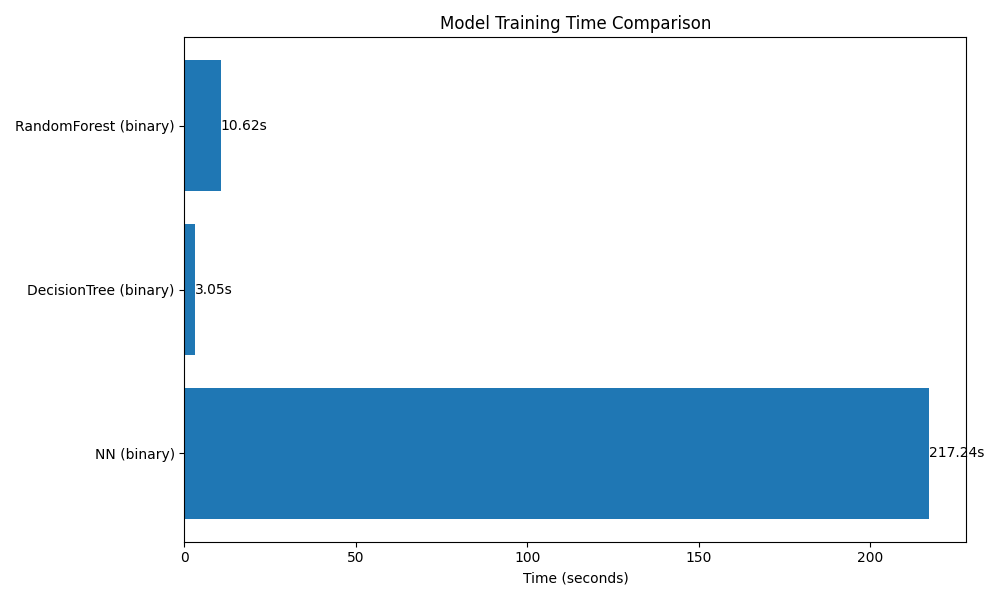
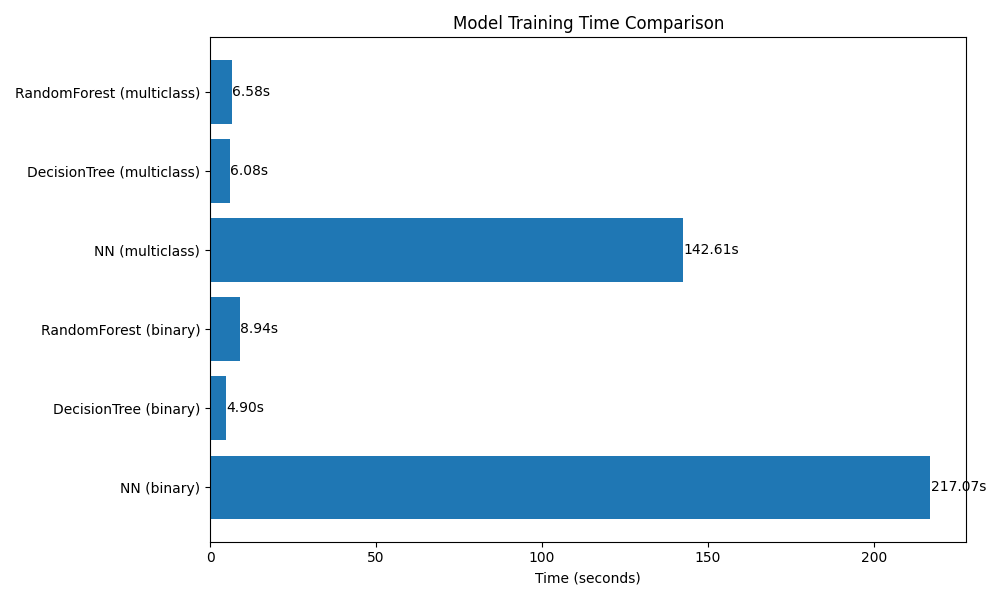
update benchmarks and decision tree feature importance

diff --git a/benchmarks.py b/benchmarks.py
@@ -72,10 +72,10 @@ def run_all(out_dir='benchmarks_output'):
 
     timings = []
 
-    # Binary classification experiments only
+    # binary 
     class_distinguisher_bin = lambda x: 0 if x == 'benign' else 1
 
-    # 1) Neural Net - binary
+    # NN binary
     print('\nPreparing NN (binary)...')
     df_bin = safe_balance(df, class_distinguisher_bin, cap=50_000)
     X_bin, y_bin = prepare_nn_arrays(df_bin, class_distinguisher_bin)
@@ -83,7 +83,7 @@ def run_all(out_dir='benchmarks_output'):
     t_nn_bin = time_nn(X_bin, y_bin, class_names=['benign', 'malicious'])
     timings.append(('NN (binary)', t_nn_bin))
 
-    # 2) Decision Tree - binary
+    # DT binary
     print('\nPreparing Decision Tree (binary)...')
     df_dt_bin = safe_balance(df, class_distinguisher_bin, cap=50_000)
     X_dt_bin, y_dt_bin = prepare_dt_df(df_dt_bin)
@@ -92,7 +92,7 @@ def run_all(out_dir='benchmarks_output'):
     t_dt_bin = time_decision_tree(X_train, X_test, y_train, y_test, class_names=['benign', 'malicious'])
     timings.append(('DecisionTree (binary)', t_dt_bin))
 
-    # 3) Random Forest - binary
+    # RF Binary
     print('\nPreparing Random Forest (binary)...')
     # reuse df_dt_bin (already balanced and feature-extracted)
     X_rf, y_rf = X_dt_bin, y_dt_bin
@@ -100,6 +100,34 @@ def run_all(out_dir='benchmarks_output'):
     print('Running Random Forest binary...')
     t_rf_bin = time_random_forest(X_train, X_test, y_train, y_test)
     timings.append(('RandomForest (binary)', t_rf_bin))
+
+    # multiclass
+    class_distinguisher_all = lambda x: 0 if x == 'benign' else 1 if x == 'defacement' else 2 if x == 'phishing' else 3
+
+    # NN multiclass
+    print('\nPreparing NN (multiclass)...')
+    df_all = safe_balance(df, class_distinguisher_all, cap=20_000)
+    X_all, y_all = prepare_nn_arrays(df_all, class_distinguisher_all)
+    print('Running NN multiclass...')
+    t_nn_multi = time_nn(X_all, y_all, class_names=['benign', 'defacement', 'phishing', 'malware'])
+    timings.append(('NN (multiclass)', t_nn_multi))
+
+    # DT multiclass
+    print('\nPreparing Decision Tree (multiclass)...')
+    # use df_all (balanced multiclass)
+    X_dt_multi, y_dt_multi = prepare_dt_df(df_all)
+    X_train, X_test, y_train, y_test = train_test_split(X_dt_multi, y_dt_multi, test_size=0.2, random_state=2)
+    print('Running Decision Tree multiclass...')
+    t_dt_multi = time_decision_tree(X_train, X_test, y_train, y_test, class_names=['benign', 'defacement', 'phishing', 'malware'])
+    timings.append(('DecisionTree (multiclass)', t_dt_multi))
+
+    # RF multiclass
+    print('\nPreparing Random Forest (multiclass)...')
+    X_rf, y_rf = X_dt_multi, y_dt_multi
+    X_train, X_test, y_train, y_test = train_test_split(X_rf, y_rf, test_size=0.2, random_state=2)
+    print('Running Random Forest multiclass...')
+    t_rf_multi = time_random_forest(X_train, X_test, y_train, y_test)
+    timings.append(('RandomForest (multiclass)', t_rf_multi))
 
     # Save timings to CSV
     csv_path = os.path.join(out_dir, 'timings.csv')

diff --git a/decision_tree.py b/decision_tree.py
@@ -5,6 +5,7 @@ import numpy as np
 import data_statistics
 from sklearn.tree import export_graphviz, export_text
 import graphviz
+from typing import Optional
 
 def train_decision_tree(model, X_train, X_test, y_train, y_test, class_names: list | None = None) -> None:
     """
@@ -82,6 +83,19 @@ def train_decision_tree(model, X_train, X_test, y_train, y_test, class_names: li
     # plot_ = sns.heatmap(cf_matrix/np.sum(cf_matrix), annot=True,fmt= '0.2%')
     # plt.show()
 
+    # Plot feature importances if available
+    if hasattr(model, 'feature_importances_'):
+        try:
+            
+            if hasattr(X_train, 'columns'):
+                feature_names = list(X_train.columns)
+            else:
+                feature_names = [f'feature_{i}' for i in range(len(model.feature_importances_))]
+
+            plot_feature_importances(model, feature_names, save_path='decision_tree_feature_importances.png')
+        except Exception:
+            pass
+
 
 def visualize_tree(model, feature_names, class_names) -> None:
     dot_data = export_graphviz(
@@ -103,3 +117,43 @@ def visualize_tree(model, feature_names, class_names) -> None:
 def print_tree(model, feature_names):
     tree_rules = export_text(model, feature_names=list(feature_names), max_depth=3)
     print(tree_rules)
+
+
+def plot_feature_importances(model, feature_names: list, top_n: Optional[int] = None, save_path: Optional[str] = None, show: bool = True) -> None:
+    """
+    Plot horizontal bar chart of feature importances
+    """
+    if not hasattr(model, 'feature_importances_'):
+        print('Model does not expose feature_importances_. Skipping plot.')
+        return
+
+    importances = np.asarray(model.feature_importances_)
+    if importances.size == 0:
+        print('No feature importances found. Skipping plot.')
+        return
+
+    if top_n is None:
+        top_n = len(feature_names)
+
+    # pair names with importances and sort
+    pairs = list(zip(feature_names, importances))
+    pairs_sorted = sorted(pairs, key=lambda x: x[1], reverse=True)[:top_n]
+    names, vals = zip(*pairs_sorted)
+
+    y_pos = np.arange(len(names))
+    plt.figure(figsize=(8, max(4, len(names)*0.4)))
+    bars = plt.barh(y_pos, vals, align='center', color='C1')
+    plt.yticks(y_pos, names)
+    plt.gca().invert_yaxis()  # largest on top
+    plt.xlabel('Importance')
+    plt.title('Feature Importances')
+
+    for bar, v in zip(bars, vals):
+        plt.text(bar.get_width() + max(0.001, max(vals)*0.01), bar.get_y() + bar.get_height()/2, f'{v:.4f}', va='center')
+
+    plt.tight_layout()
+    if save_path:
+        plt.savefig(save_path)
+        print(f'Feature importances plot saved to: {save_path}')
+    if show:
+        plt.show()
